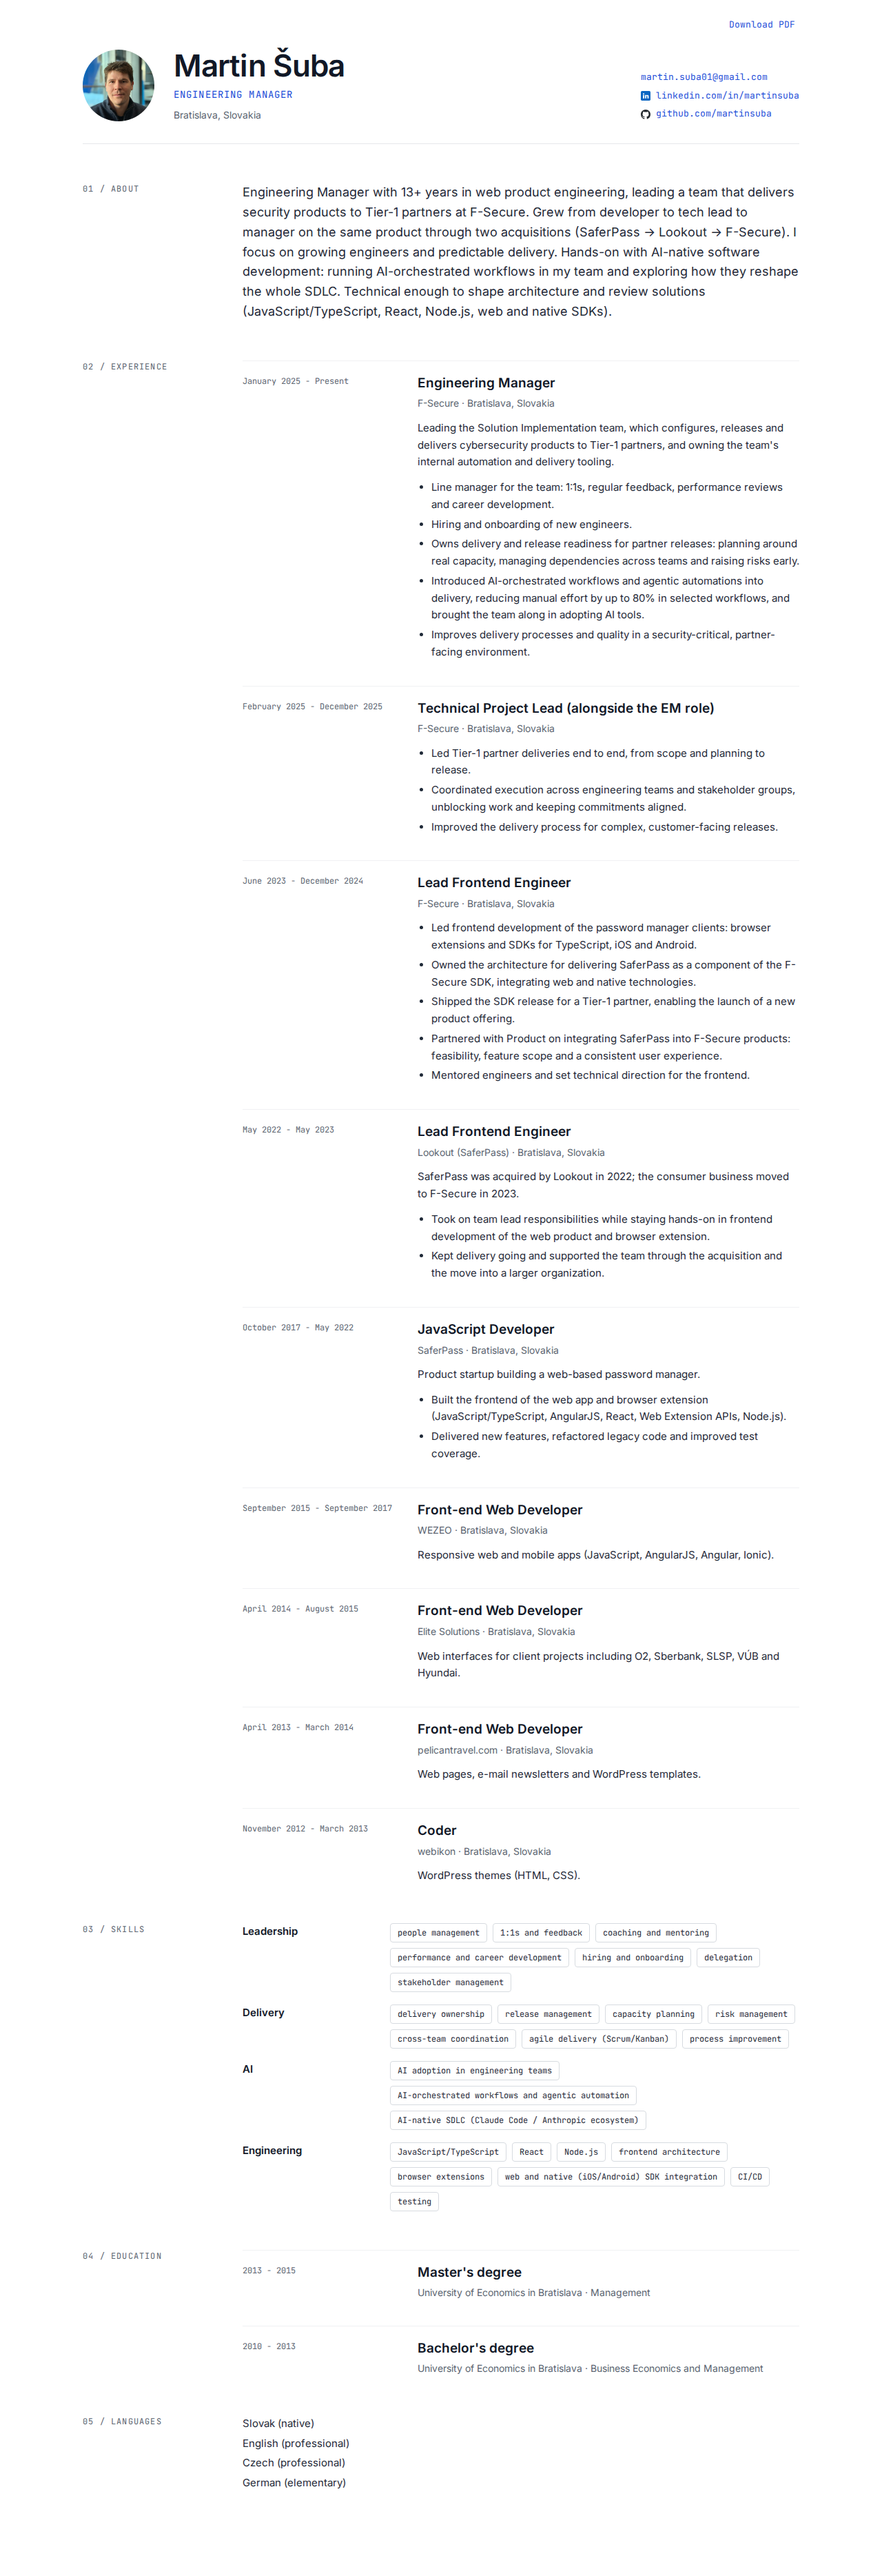
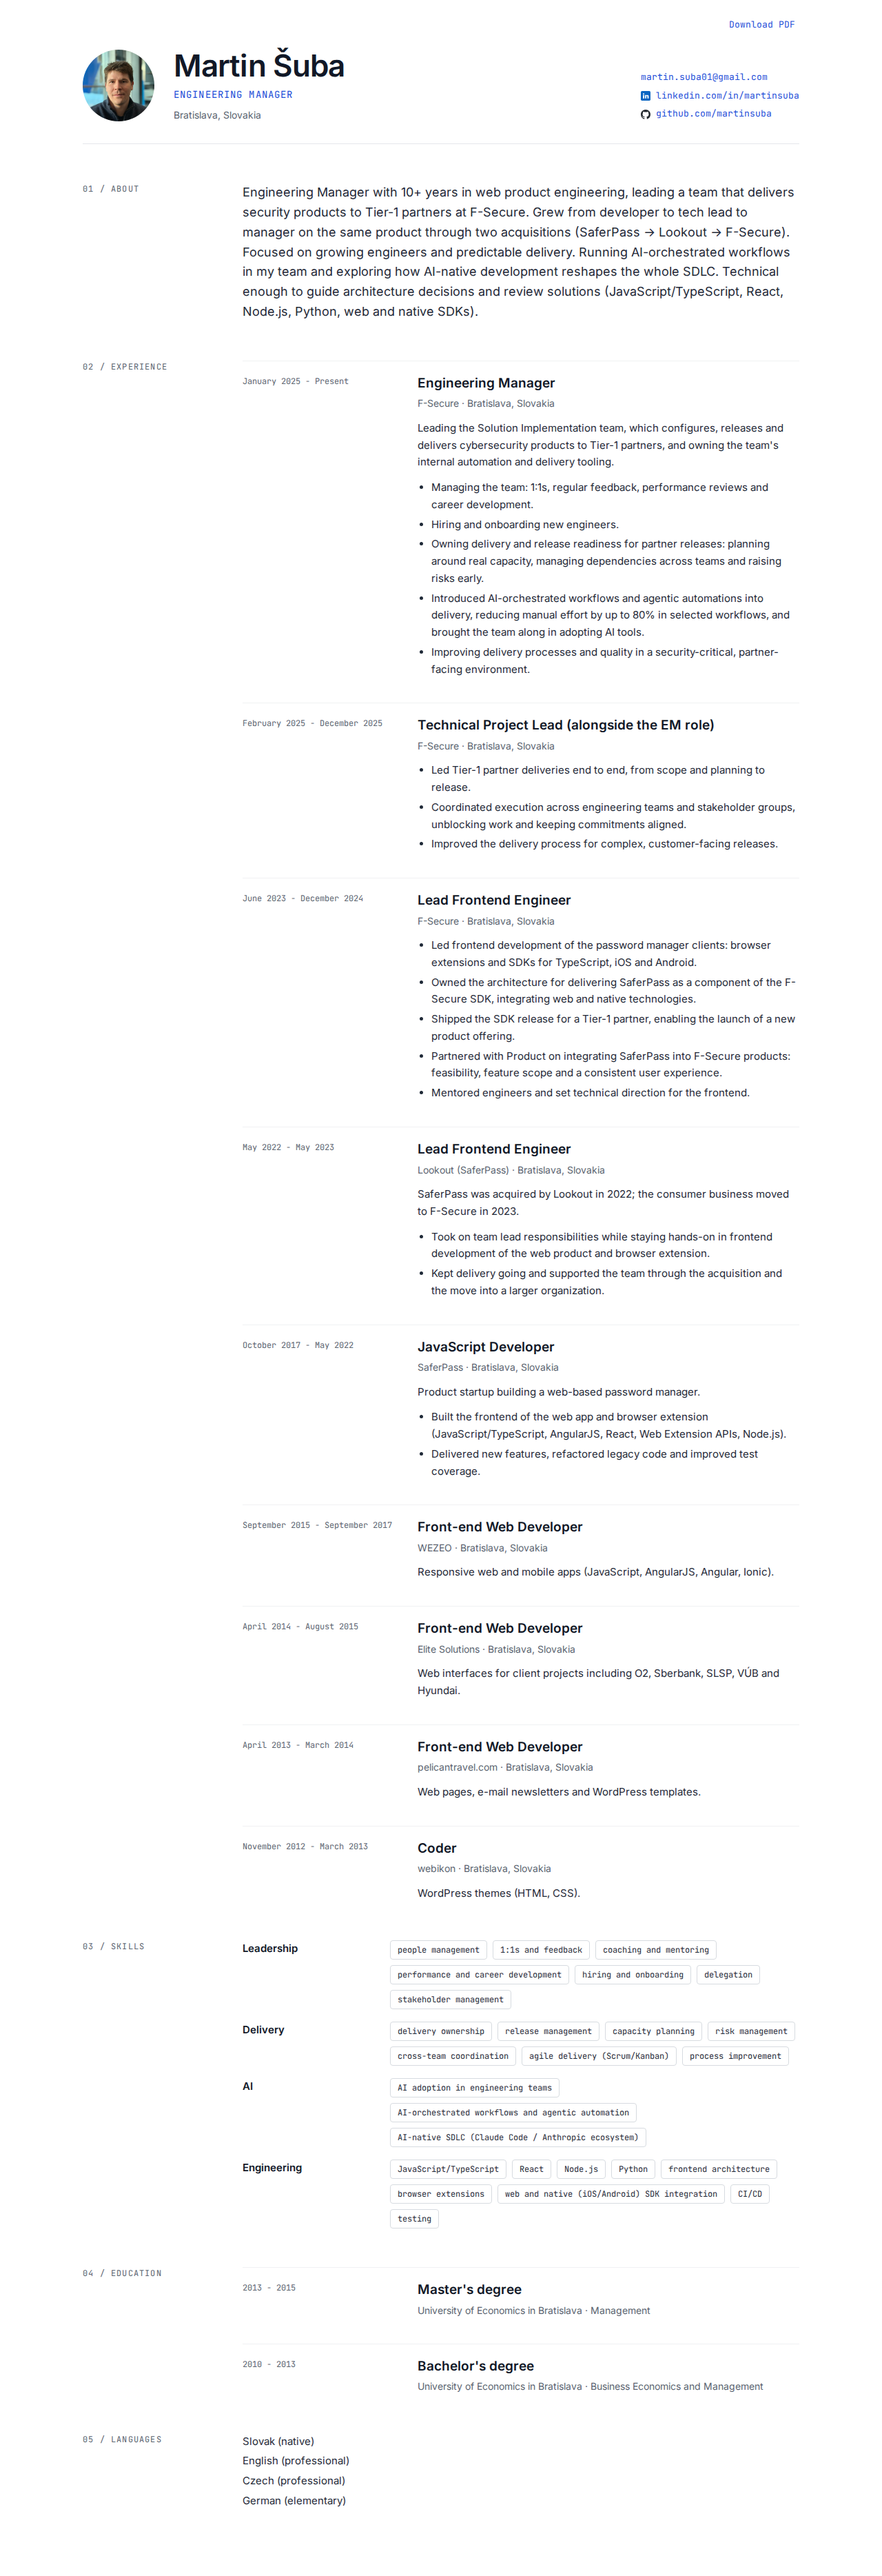
M7 milestone: T-025 tick, status, fresh screenshots
Claude-Session: https://claude.ai/code/session_013BE9M4cxFUJPaBc8JXDidu

diff --git a/docs/STATUS.md b/docs/STATUS.md
@@ -1,9 +1,9 @@
 # Status: cv
-Phase: build (M7 complete; milestone PR in review)
+Phase: build (M7 complete incl. T-025; milestone PR in review)
 Current task: –
-Open PRs: M7 milestone (chore/milestone-M7)
+Open PRs: M7 milestone #78 (chore/milestone-M7)
 Blockers: –
-Next step: Martin reviews and merges the M7 milestone PR, then approves a deploy so content v2 goes live. Optional follow-up: keep hyphenated words like "F-Secure" from breaking across lines (render-time no-wrap span, needs a plan update).
+Next step: Martin merges the M7 milestone PR #78, then approves a deploy so content v2 (with the v4.1 About) goes live. Optional follow-up: keep hyphenated words ("F-Secure", "AI-orchestrated") from breaking across lines in the PDF (render-time no-wrap spans, needs a plan update).
 
 ## Decisions log
 - 2026-10-23: project onboarded to the framework (was a legacy repo without docs). Context: ~/HAL/ai-assistant/notes/career/cv/cv-project-notes.md
@@ -77,3 +77,6 @@ Next step: Martin reviews and merges the M7 milestone PR, then approves a deploy
 - 2026-10-24: T-024 done (PR #77, 1 fix round: a removed-skills regex had been loosened, reverted). PDF 2 pages (~95%/97% fill) via print spacing only; print h1 line-height 1.15 for top-margin headroom (44.25 pt vs 42.5 pt limit). "→" in About needed one-glyph Inter subsets (src/fonts/, inter-ui 3.19.3, OFL, ~1.4 KB inlined) because fontsource Inter lacks U+2192 and Chromium fell back to LiberationSans (REQ-012). design.spec `section li` scoped to `.skills li` (Lead-allowed).
 - 2026-10-24: M7 complete. Cosmetic open point: "F-Secure" can break at its hyphen in the PDF; CSS alone can't prevent it (needs no-wrap spans at render time). Not done; ask Martin.
 - 2026-10-24: a stale git-ignored .stryker-tmp/ in the main checkout breaks `npm run lint` locally (agents may not delete it); `rm -rf .stryker-tmp` by Martin, or add it to the ESLint ignores in a later task.
+- 2026-10-25: Martin reviewed M7: About v4.1 (10+ years counted from WEZEO 2015, Python, "guide architecture decisions", AI sentence true to current practice: AI-orchestrated workflows at work, AI-native SDLC as exploration), one voice without "I", EM bullets as present participles. Plan v6 merged (#79).
+- 2026-10-25: T-025 done (PR #80, 0 fix rounds; review + test-review clean). PDF still 2 pages. Milestone branch updated with master and fresh screenshots.
+- 2026-10-25: the auto-mode command classifier returned no verdict repeatedly (server-side error); Martin switched to accept-edits mode so the Lead could continue with per-command approval.

diff --git a/docs/PLAN.md b/docs/PLAN.md
@@ -276,7 +276,7 @@ Approved text: ~/HAL/ai-assistant/notes/career/cv/cv-draft.md (v3 FINAL, 2026-10
 - Definition of done: code + tests, CI green, review + test-review clean; the Lead renders the PDF pages and checks them
   against the draft before the milestone PR. Deploy only after Martin approves (docs/DEPLOY.md).
 
-### [ ] T-025: About v4, EM bullets voice, Python  (size S, plan v6)
+### [x] T-025: About v4, EM bullets voice, Python  (size S, plan v6)  — #80
 - Goal: Martin's review of the M7 milestone (2026-10-25, draft v4 in the career notes). In `data/cv.json` replace `about`
   with exactly:
   "Engineering Manager with 10+ years in web product engineering, leading a team that delivers security products to Tier-1 partners at F-Secure. Grew from developer to tech lead to manager on the same product through two acquisitions (SaferPass → Lookout → F-Secure). Focused on growing engineers and predictable delivery. Running AI-orchestrated workflows in my team and exploring how AI-native development reshapes the whole SDLC. Technical enough to guide architecture decisions and review solutions (JavaScript/TypeScript, React, Node.js, Python, web and native SDKs)."

diff --git a/docs/LOG.md b/docs/LOG.md
@@ -33,3 +33,5 @@ date | gate/phase | what Martin did | could an agent do it? (y/n + why)
 2026-10-24 | M6 T-021 | needs to dismiss stale Dependabot alerts (PAT cannot read them) | y – resolved: Martin granted "Dependabot alerts: read"; all 218 alerts were already fixed, none to dismiss
 2026-10-24 | plan v5 | content rework in chat: answered the review points, approved draft v3, chose location without "open to" | n – content and product decisions
 2026-10-24 | plan v5 gate | merged plan v5 (#75), said "go M7" | n – gate
+2026-10-25 | M7 review | reviewed the CV text, asked for About changes (Python, years, voice, honest AI wording); merged plan v6 (#79), said "go" | n – content decisions
+2026-10-25 | M7 | switched out of auto mode because the command classifier kept failing | n – platform fault
